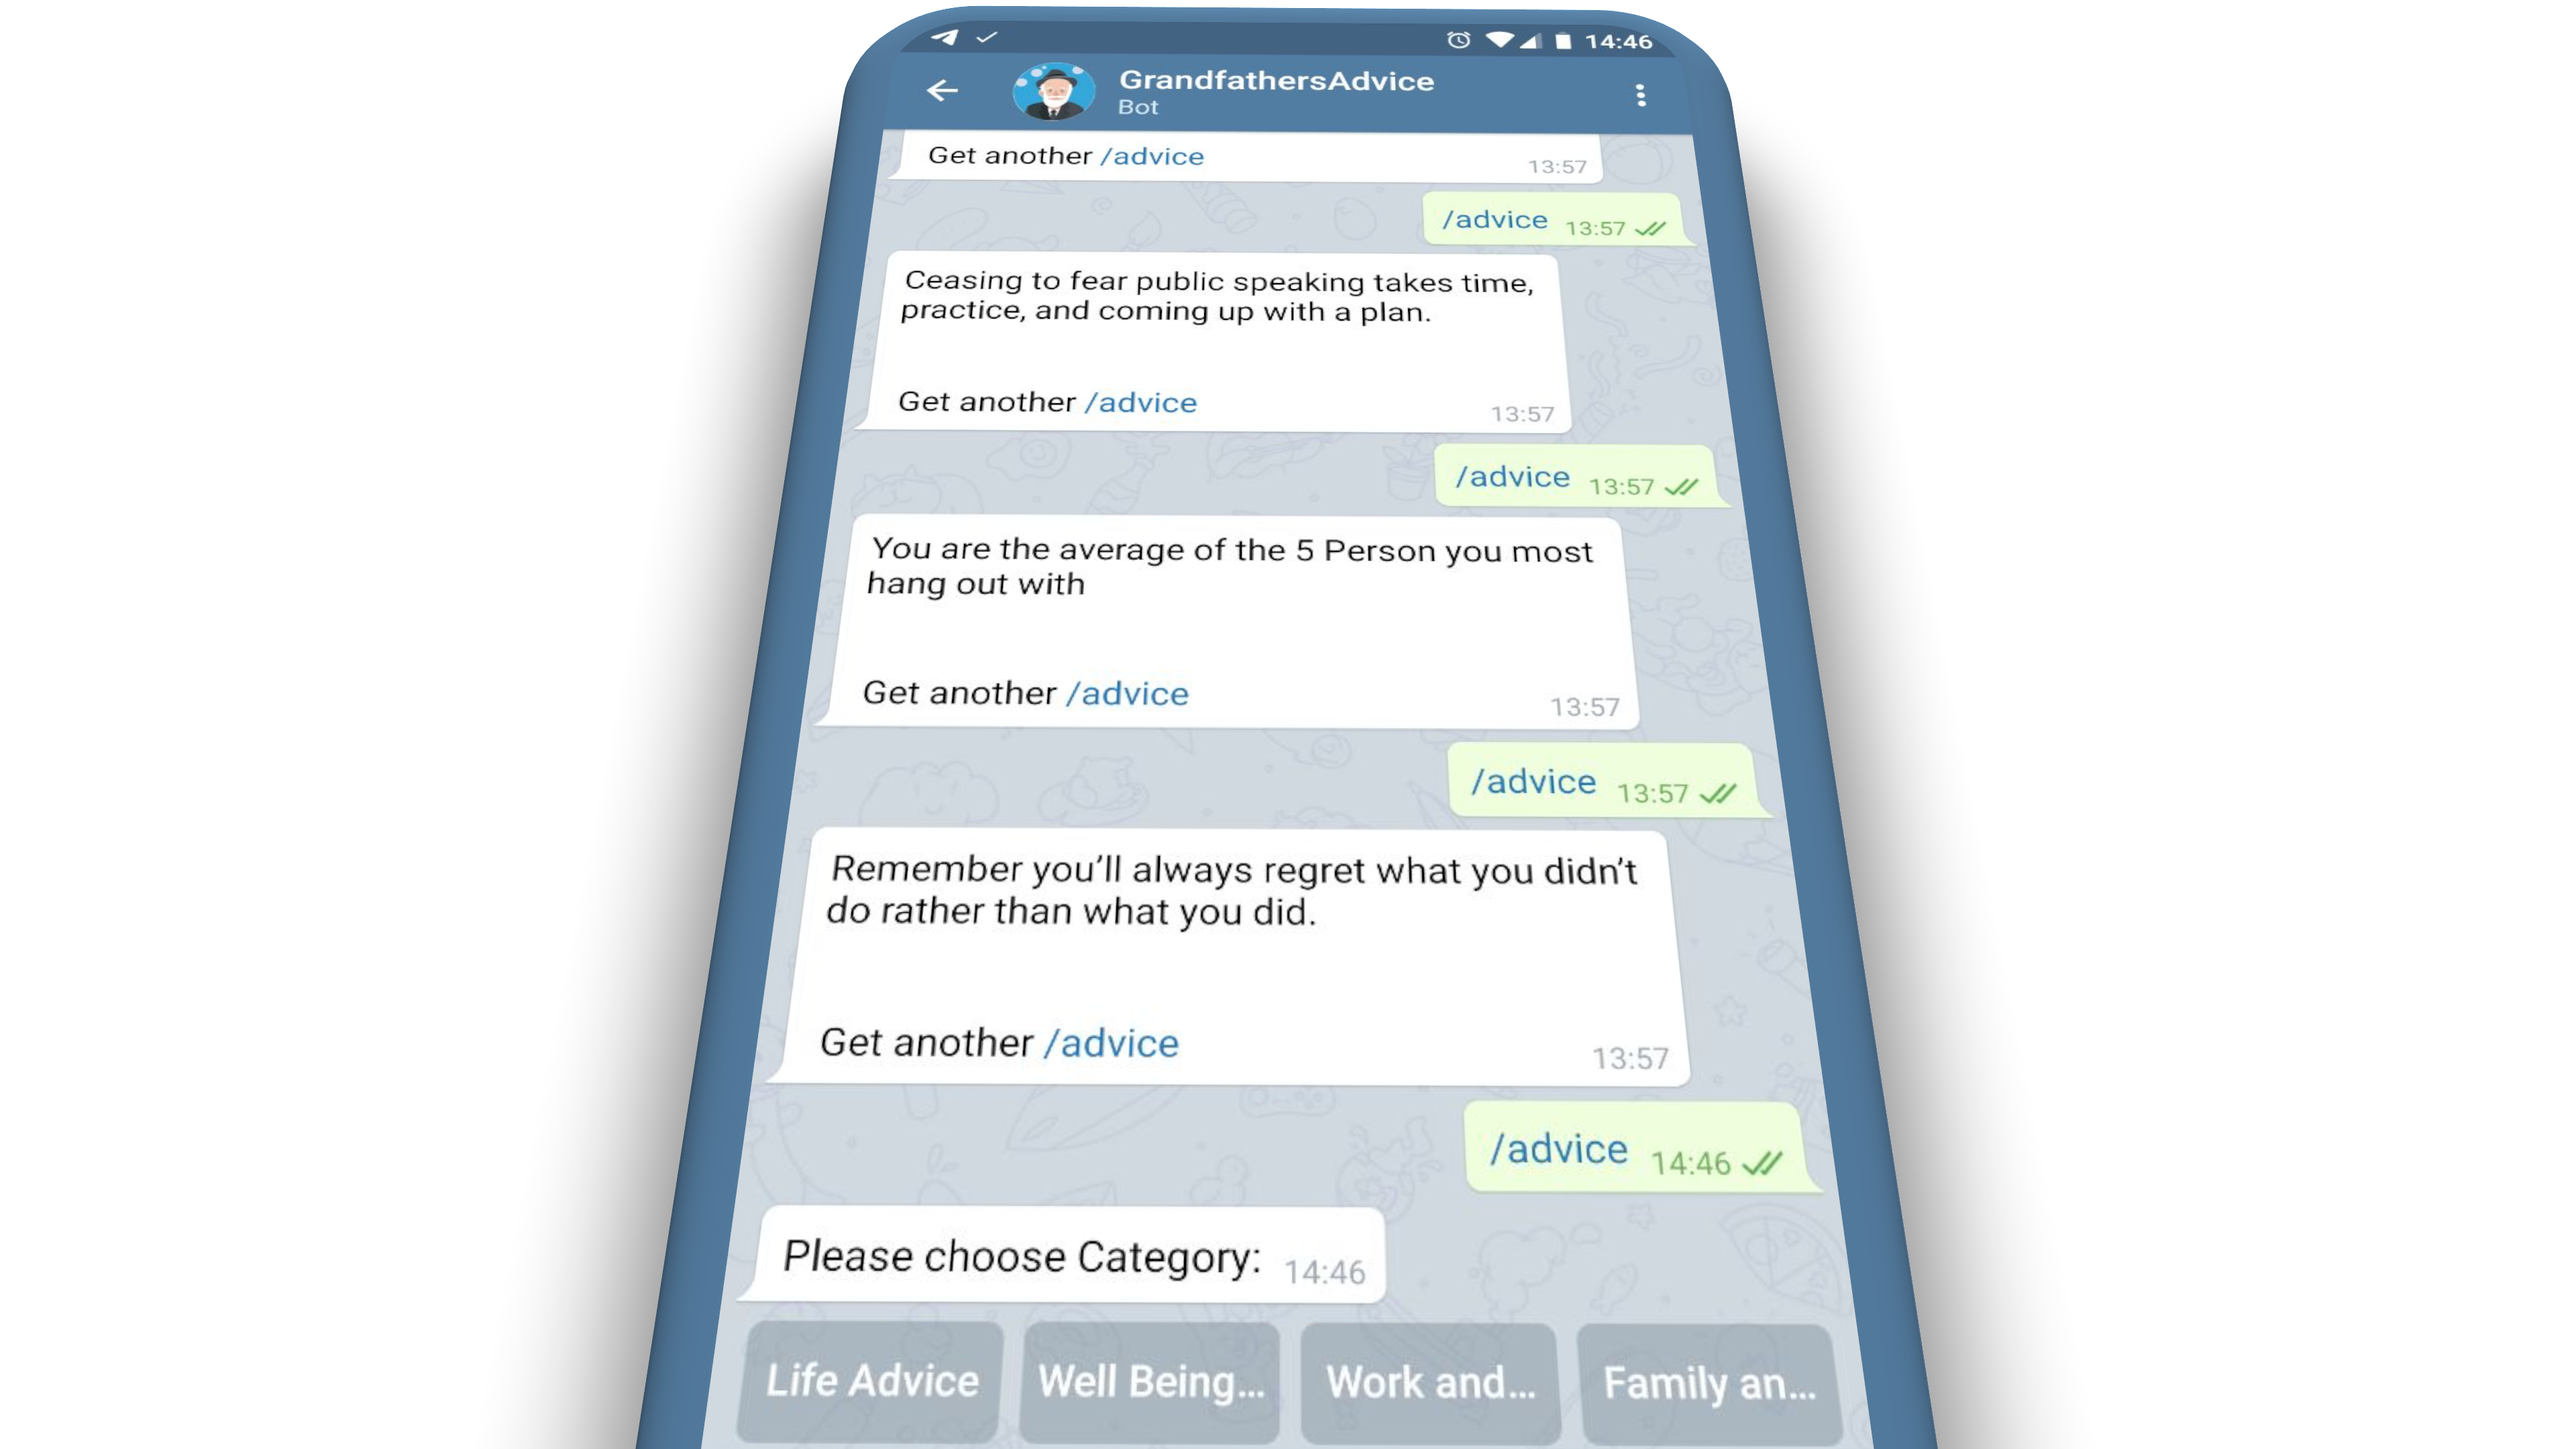
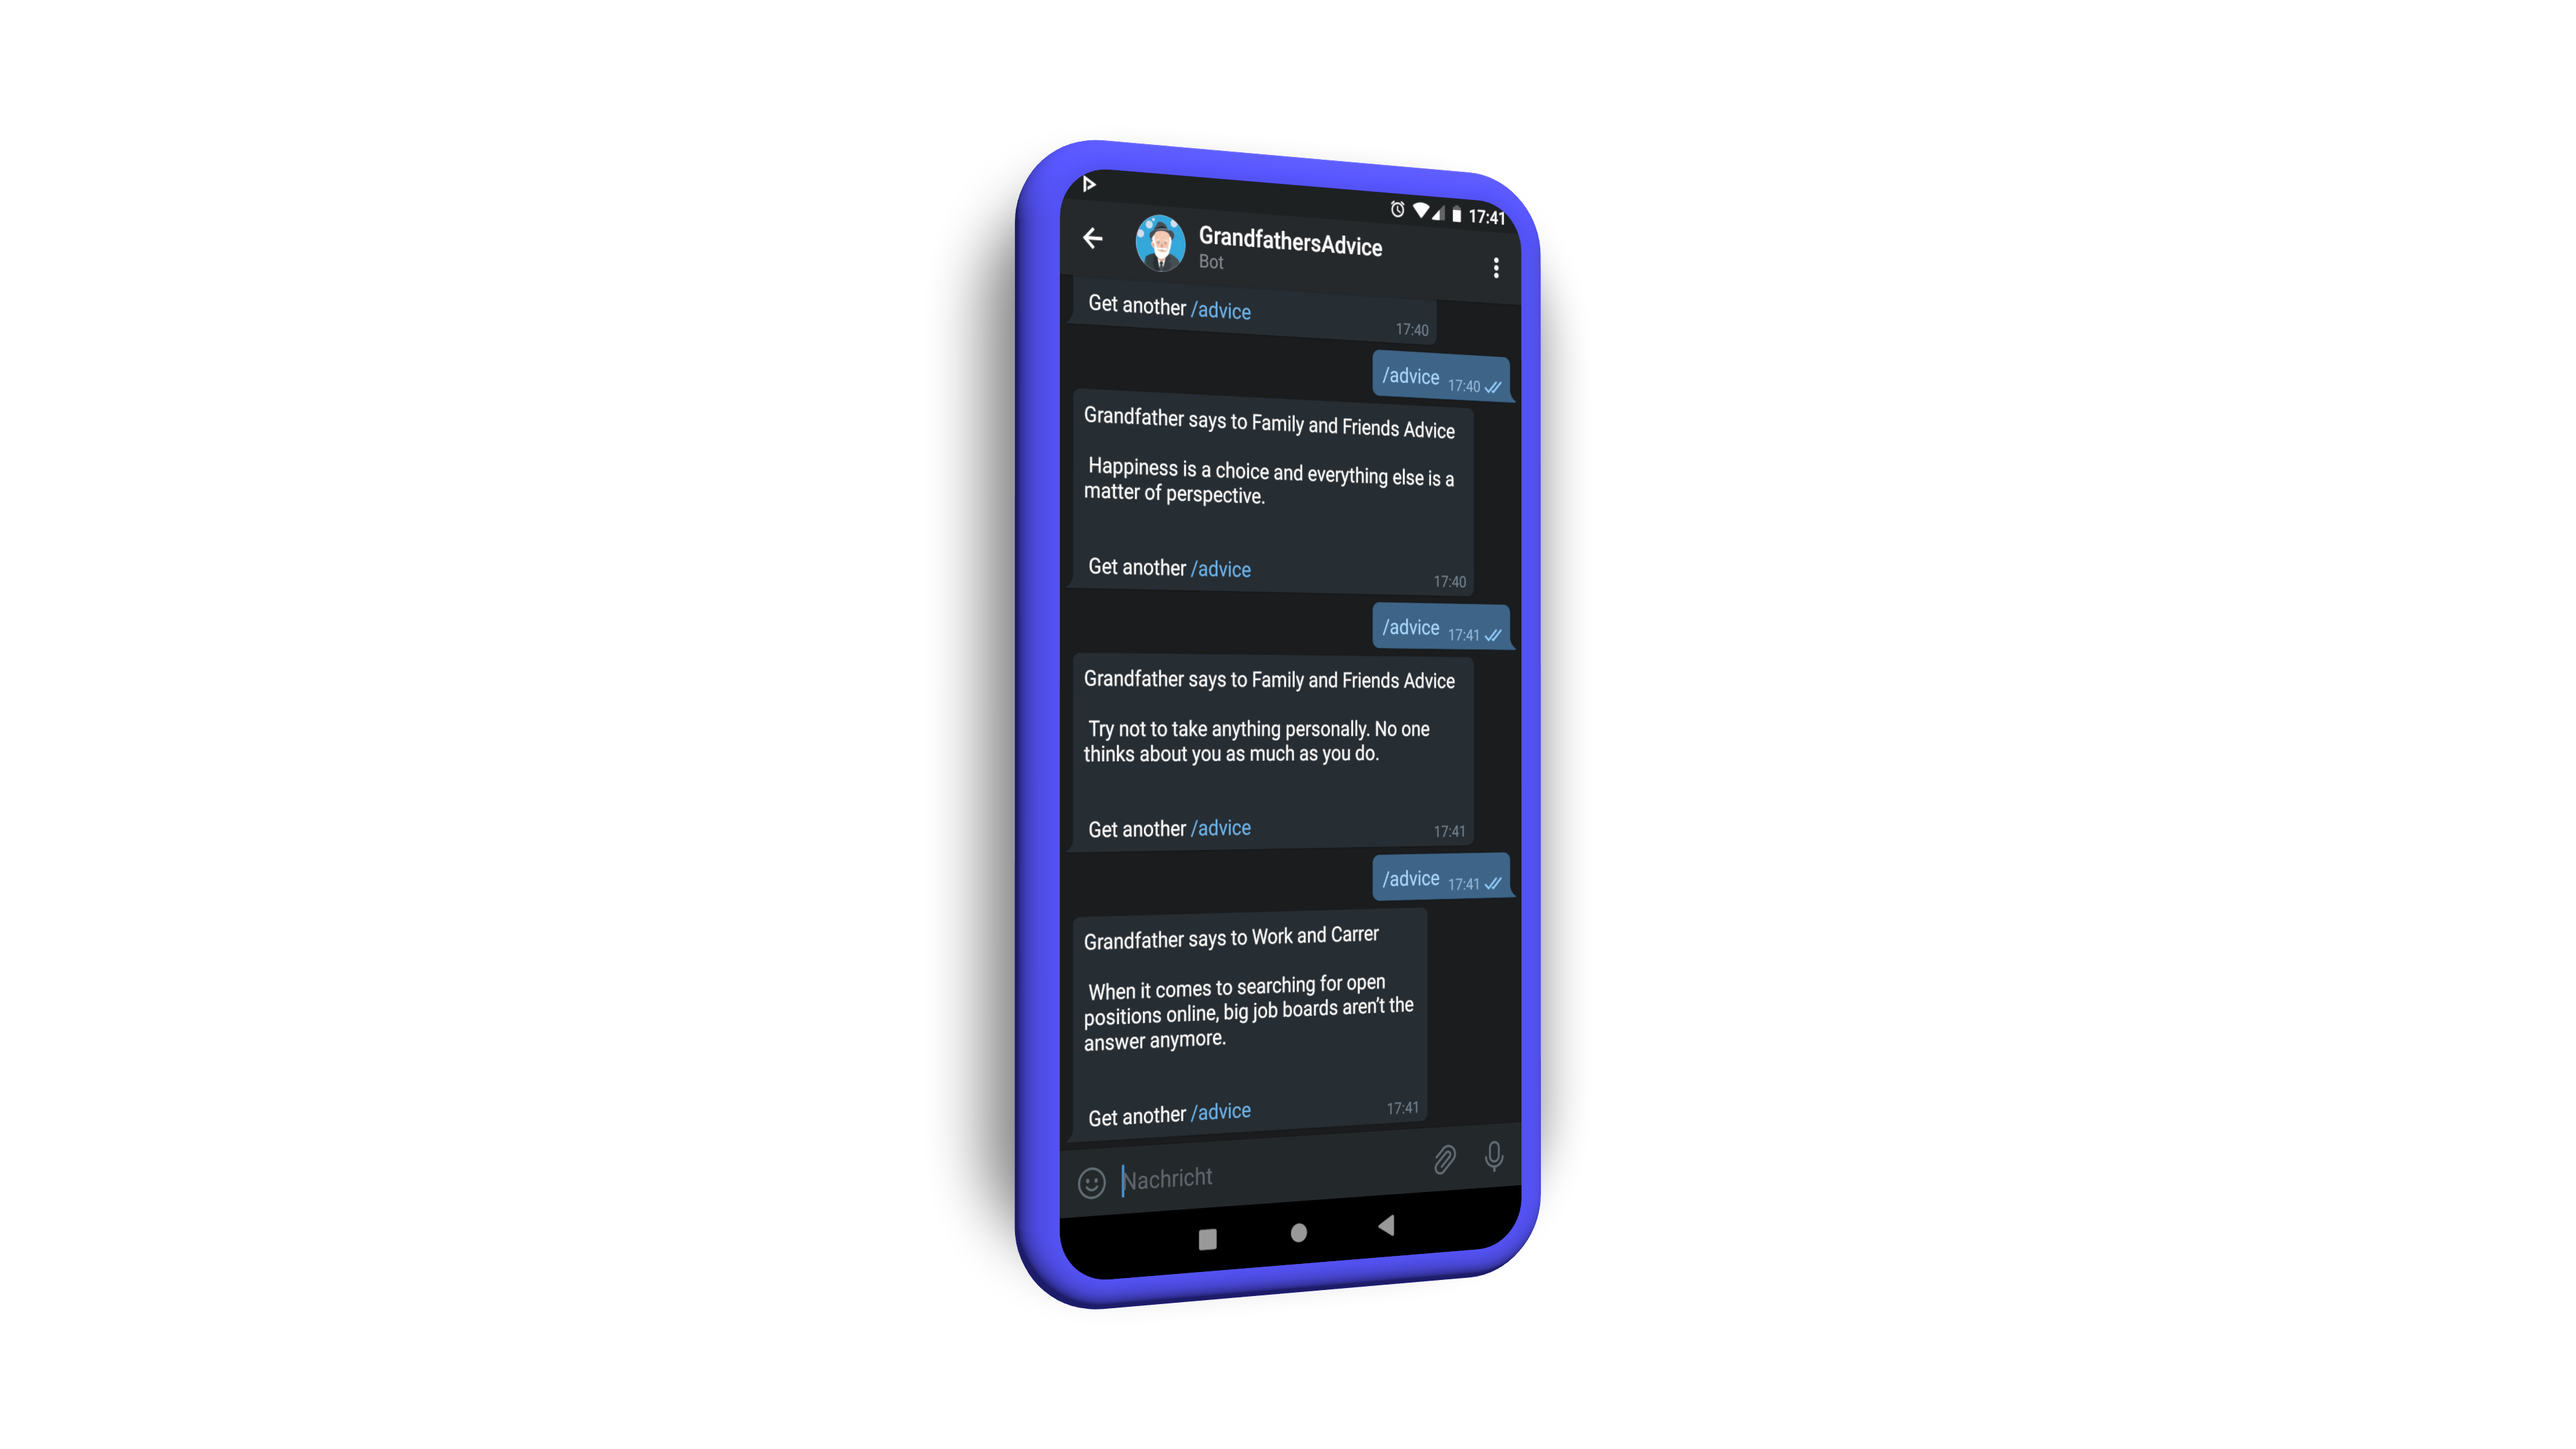
added better message formatting

diff --git a/main.py b/main.py
@@ -12,6 +12,7 @@
 
 import logging
 import json
+import os
 import random
 
 from telegram import InlineKeyboardButton, InlineKeyboardMarkup
@@ -52,22 +53,22 @@ def button(update, context):
         logger.info("sending Family and Friends Advice")
         advice=random.choice(life)
         logger.info(advice)
-        query.edit_message_text(text="\n \n "+ advice + " \n \n \n Get another /advice")
+        query.edit_message_text(text="Grandfather says to Family and Friends Advice \n \n "+ advice + " \n \n \n Get another /advice")
     elif data == "2":
         logger.info("sending Well Being and Health Advice")
         advice=random.choice(health)
         logger.info(advice)
-        query.edit_message_text(text="\n \n "+ advice + " \n \n \n Get another /advice")
+        query.edit_message_text(text="Grandfather says to Well Being and Health Advice \n \n "+ advice + " \n \n \n Get another /advice")
     elif data == "3":
         logger.info("sending Work and Carrer Advice")
         advice=random.choice(carrer)
         logger.info(advice)
-        query.edit_message_text(text="\n \n "+ advice + " \n \n \n Get another /advice")
+        query.edit_message_text(text="Grandfather says to Work and Carrer\n \n "+ advice + " \n \n \n Get another /advice")
     elif data == "4":
         logger.info("sending Family and Friends Advice")
         advice=random.choice(family)
         logger.info(advice)
-        query.edit_message_text(text="\n \n "+ advice + " \n \n \n Get another /advice")
+        query.edit_message_text(text="Grandfather says to Family and Friends Advice \n \n \n "+ advice + " \n \n \n Get another /advice")
 
 def help(update, context):
     update.message.reply_text("Use /advice to get some advice.")

diff --git a/README.md b/README.md
@@ -1,20 +1,22 @@
 # GrandfathersAdvice Telegram Bot
 
+Grandfather will tell you his Advice he learned throughout his Life. 
 
 
-![](img/screenshot2.png)
+
+![](img/header.png)
 
 
 
 [![forthebadge made-with-python](https://camo.githubusercontent.com/5392ad6fb7875a2520001270f08309896b6cb25d/687474703a2f2f466f7254686542616467652e636f6d2f696d616765732f6261646765732f6d6164652d776974682d707974686f6e2e737667)](https://www.python.org/) [![GitHub license](https://camo.githubusercontent.com/16ffa88a35d0857d4db701c510eb3099fbf8d907/68747470733a2f2f696d672e736869656c64732e696f2f6769746875622f6c6963656e73652f4e61657265656e2f5374726170446f776e2e6a732e737667)](https://camo.githubusercontent.com/16ffa88a35d0857d4db701c510eb3099fbf8d907/68747470733a2f2f696d672e736869656c64732e696f2f6769746875622f6c6963656e73652f4e61657265656e2f5374726170446f776e2e6a732e737667) [![Open Source Love svg1](https://camo.githubusercontent.com/d41b9884bd102b525c8fb9a8c3c8d3bbed2b67f0/68747470733a2f2f6261646765732e66726170736f66742e636f6d2f6f732f76312f6f70656e2d736f757263652e7376673f763d313033)](https://camo.githubusercontent.com/d41b9884bd102b525c8fb9a8c3c8d3bbed2b67f0/68747470733a2f2f6261646765732e66726170736f66742e636f6d2f6f732f76312f6f70656e2d736f757263652e7376673f763d313033)
 
-Grandfather will tell you Advice he learned throughout his Life. 
+
 
 
 
 Click the Button to get some Advice from Grandfather:
 
-[![](https://img.shields.io/badge/GrandfathersAdviceBot-Telegram-blue.svg)]( t.me/GrandfathersAdviceBot)
+[![](https://img.shields.io/badge/GrandfathersAdviceBot-Telegram-blue.svg)]( https://t.me/GrandfathersAdviceBot)
 
 
 
